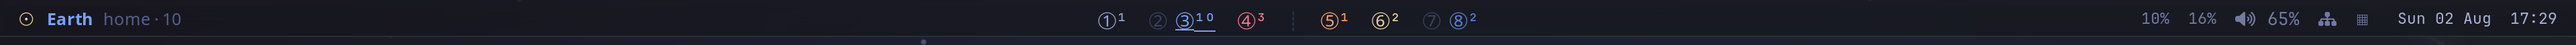
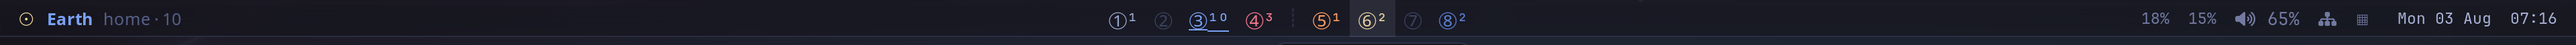
clicks that go where the habit lives
The last pass made right-click's menu contextual and it was still wrong,
because the problem was never the menu's ordering — it was that right-click
navigated at all. Right-click has meant "act on what is here" since desktops
began, and never "take me somewhere else". Meanwhile the place people DO
click to switch — the numbered buttons in the bar, i3's oldest muscle
memory — was the one place sol didn't support a click.

So each job now lives where its habit does:

- The strip is eight buttons. Click ③ and you are on Earth, exactly as a
  workspace number has worked in every bar since i3. One waybar module
  cannot know which glyph you clicked, so each planet is its own module,
  reading its own line of the file `sol here` already writes — a sed per
  second per chip, not an interpreter.
- Right-click acts on what is here: tidy, step through, and NEW TERMINAL
  HERE — the oldest right-click item on any desktop, and honest here,
  because new windows land under the cursor: "here" is where you clicked.
  Travel sits behind one labelled door, "Go to a planet…".
- mod+tab skips straight to that switcher (sol menu go): every place, what
  it holds, type to filter — the rofi habit, on the rofi key.

Verified with the emulated hand before shipping: six clicks walked across
the strip landed on goto 3 / 3 / 4 / 4 / 5 / 6 — each chip its own button —
and a stubbed fuzzel confirmed the menu emits actions-first before the
screenshots were taken.

diff --git a/config/waybar.css b/config/waybar.css
@@ -54,12 +54,25 @@ window#waybar {
 #custom-where.system  { color: #bb9af7; }
 #custom-where.space   { color: #565f89; font-weight: 500; }
 
-/* ── centre: the strip ───────────────────────────────────────────────── */
-/* It brings its own colours in pango markup, so all this owes it is room. */
-#custom-strip {
+/* ── centre: the strip, as eight buttons ─────────────────────────────── */
+/* Each planet is its own module so each is its own click target — the
+   workspace-button muscle memory. The chips bring their own colours in
+   pango markup; this only gives them room and a hover, so they read as
+   the buttons they are. */
+#custom-p1, #custom-p2, #custom-p3, #custom-p4,
+#custom-p5, #custom-p6, #custom-p7, #custom-p8 {
   font-family: "JetBrainsMono Nerd Font", "JetBrains Mono", monospace;
   font-size: 13px;
-  padding: 0 12px;
+  padding: 0 6px;
+}
+#custom-p1:hover, #custom-p2:hover, #custom-p3:hover, #custom-p4:hover,
+#custom-p5:hover, #custom-p6:hover, #custom-p7:hover, #custom-p8:hover {
+  background: rgba(192, 202, 245, 0.10);
+}
+#custom-belt {
+  color: #2a2f45;
+  font-family: "JetBrainsMono Nerd Font", "JetBrains Mono", monospace;
+  padding: 0 4px;
 }
 
 /* ── right: status, quiet and evenly spaced ──────────────────────────── */

diff --git a/README.md b/README.md
@@ -87,14 +87,24 @@ desktops. Three fingers still pan and two still zoom, so nothing you already do 
 | pinch in / out | pull back to the system · drop into where you are |
 | four-finger hold | tidy this planet |
 
-On a mouse, the clicks follow the muscle memory they borrow from. **Right-click the sky** opens the
-`☉` menu as a context menu — where you are and what you would do to it first, then everywhere else —
-because right-click has meant "a menu about what is here" for as long as there have been desktops.
-**Middle-click the sky** opens the overview, which is the window list, which is what middle-click on
-the root has meant since X11 had root menus. And on a window sol binds no plain clicks at all:
-middle-click is paste, and it stays paste. driftwm has no double-click trigger, so "double-click a
-planet to go there" is one habit the canvas cannot borrow — clicking a window from far out flies you
-to it, which covers the same instinct.
+On a mouse, every click borrows a habit you already have, and does what that habit expects:
+
+- **The numbers in the bar are buttons.** Click `③` and you are on Earth — the same gesture as
+  clicking a workspace number in any bar since i3. This is where "click to switch" has always
+  lived, so it is the only place a plain click means travel.
+- **Right-click the sky acts on what is here**, as right-click has since desktops began: tidy this
+  planet, step through its windows, *new terminal here* — the oldest right-click item there is, and
+  since new windows land under the cursor, "here" is exactly where you clicked. Travel sits behind
+  one labelled door, "Go to a planet…", instead of being what the menu is.
+- **Middle-click the sky opens the overview** — middle-on-the-root has meant the window list since
+  X11 had root menus, and the overview is the window list.
+- **On a window, sol binds nothing without a modifier.** Middle-click is paste and stays paste;
+  `alt+left` moves and `alt+right` resizes, as they do on every Linux desktop.
+- **From far out, clicking a window flies you to it** — direct manipulation: touch the thing you
+  are looking at.
+
+driftwm has no double-click trigger, so "double-click a planet to go there" is one habit the canvas
+cannot borrow; the bar's buttons and click-to-fly cover the same instinct.
 
 ## When a planet fills up
 
@@ -202,16 +212,19 @@ menus. Status sits on the right, monochrome and quiet, then Control Centre, then
 In the middle is **the strip**: all eight planets at once, `①②③④ ┊ ⑤⑥⑦⑧`, each in its own colour with
 a small tally, dim when empty, underlined where you are. It is ordinal rather than spatial on
 purpose — nobody flies by angle, they fly by number — and the belt keeps its place in the middle as
-the divide it is. Scroll it to travel sunward and outward, the way you scroll a volume icon.
+the divide it is. **Each number is a button**: click it and you are there, exactly as a workspace
+number has worked in every bar since i3. Scroll anywhere on the strip to travel sunward and outward,
+the way you scroll a volume icon.
 
 Only one module in the bar ever asks driftwm anything. `sol here` runs once a second, and leaves the
 other modules' answers in a file for them to read, so eight planets' worth of tally costs one query.
 
 ![the bar](screenshots/bar.png)
 
-**The `☉` menu** is what the sun at the far left opens, what `mod+tab` brings up, and what
-right-clicking the sky means: a context menu for wherever you are standing — this place and its
-actions first, then everywhere else with what each is holding.
+**The `☉` menu** is what the sun at the far left opens and what right-clicking the sky means: a
+context menu for wherever you are standing — tidy it, step through it, open a terminal here — with
+travel behind one labelled "Go to a planet…" item. `mod+tab` skips straight to that switcher:
+every place, what it holds, type to filter.
 
 ![the menu](screenshots/menu.png)
 
